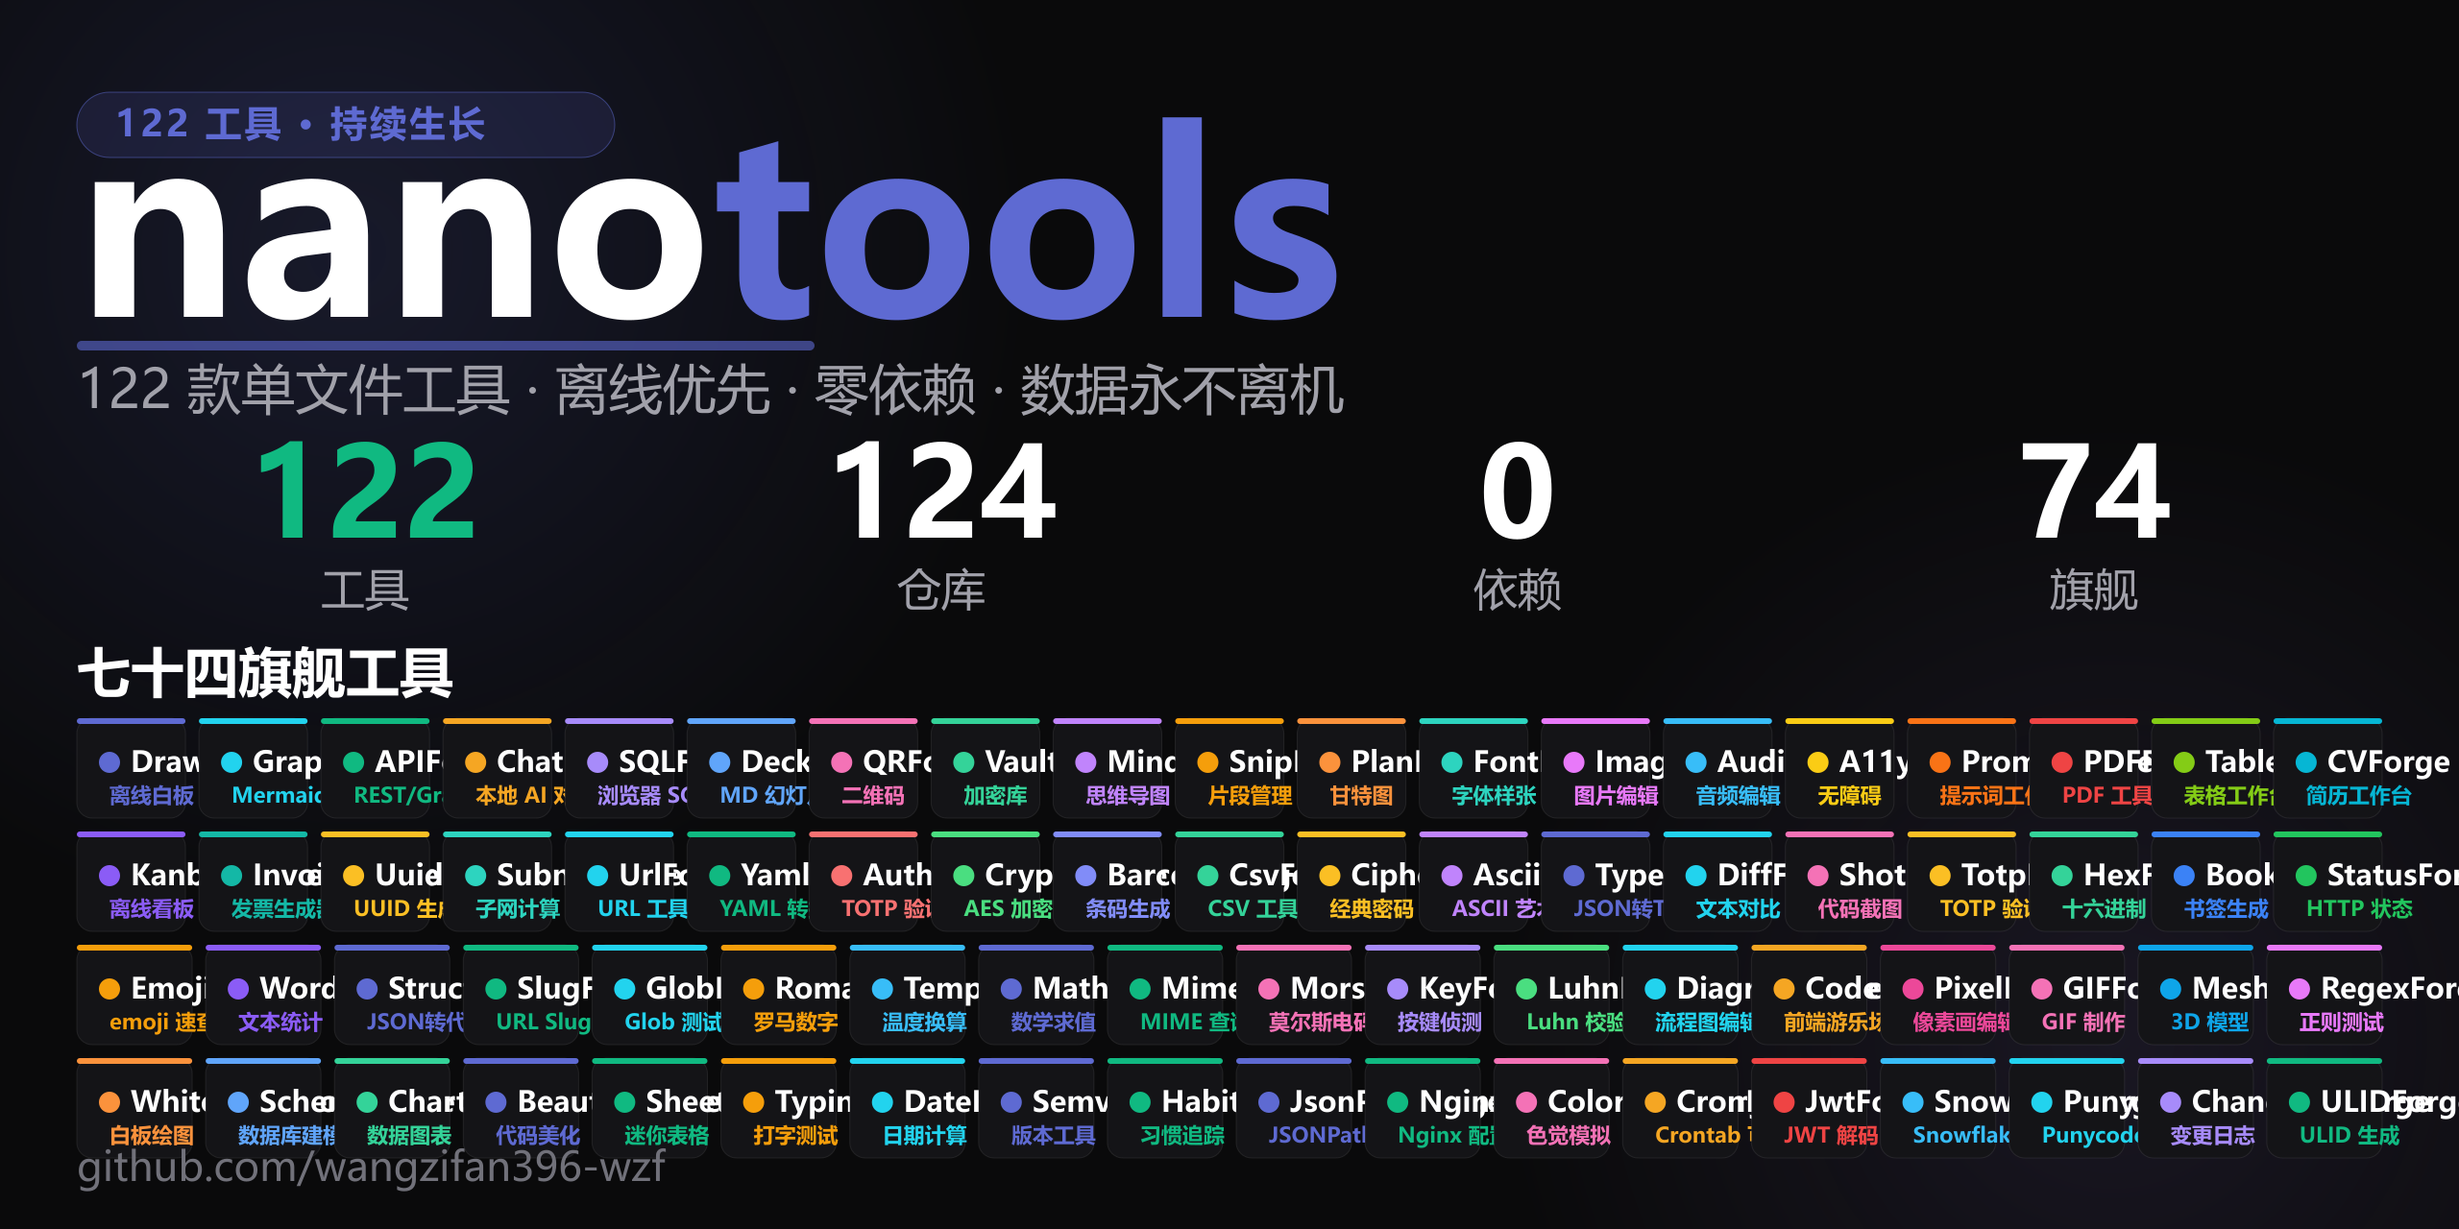
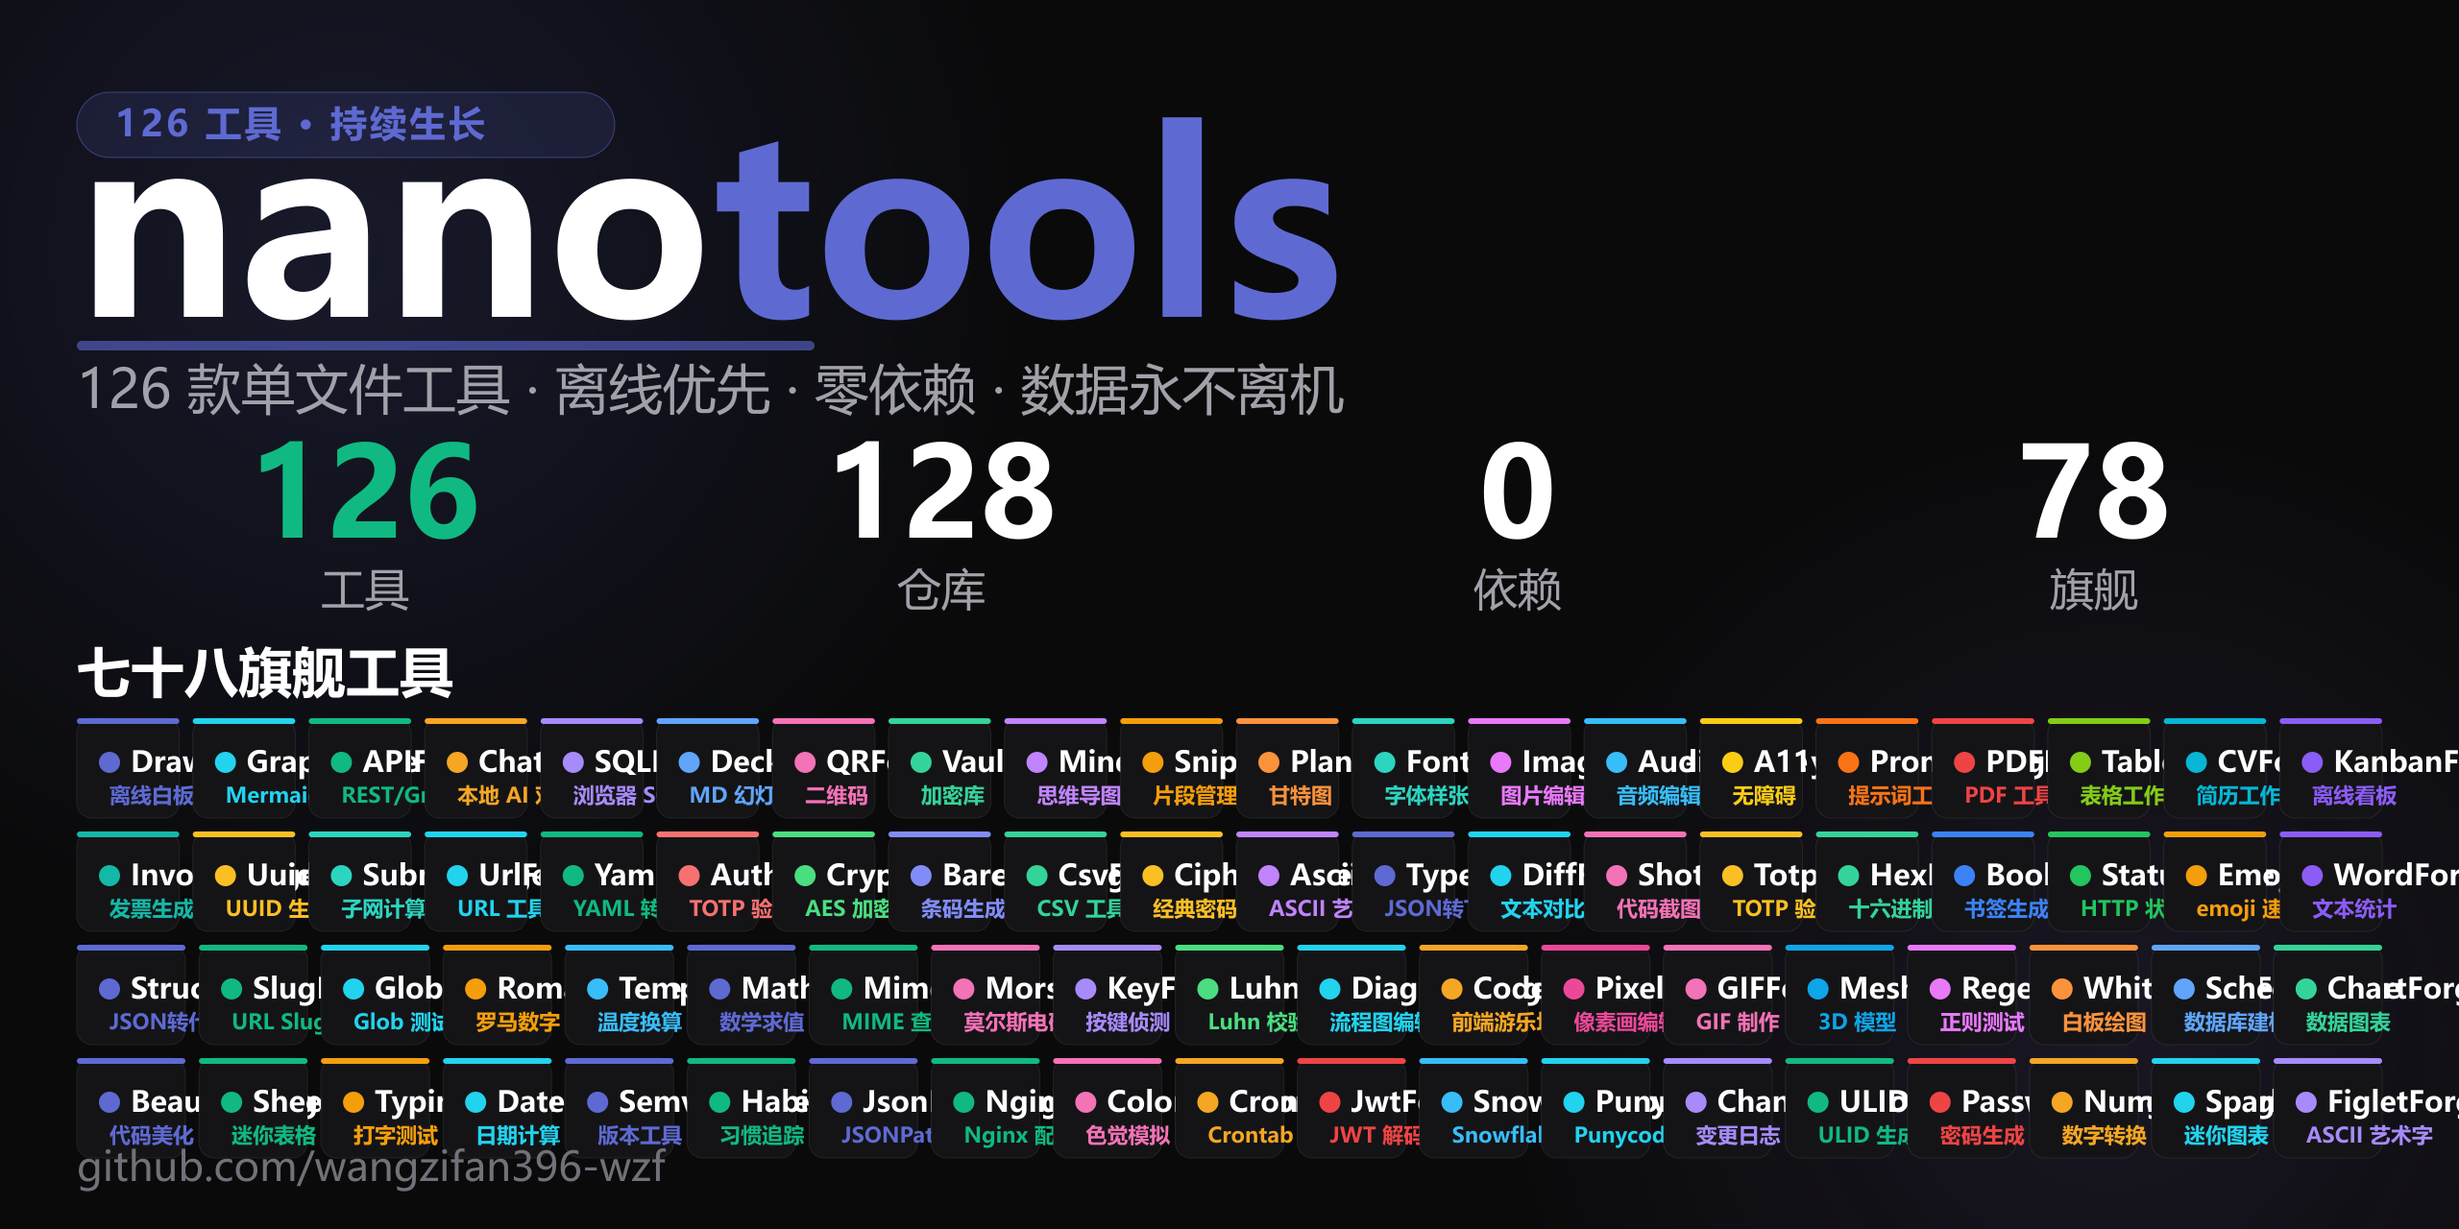
feat: batch 23 - add PasswordForge/NumeralForge/SparkForge/FigletForge (126 tools, 78 flagships)

diff --git a/index.html b/index.html
@@ -5,9 +5,9 @@
 <meta charset="UTF-8">
 <meta name="viewport" content="width=device-width, initial-scale=1.0">
 <title data-i18n="meta_title">nano-tools · 单文件零依赖工具集</title>
-<meta name="description" data-i18n="meta_desc" content="一个标签页，收纳你全部的开发者工具。122 个单文件、零依赖、本地优先的开源工具，下载即用，数据永不离机。">
+<meta name="description" data-i18n="meta_desc" content="一个标签页，收纳你全部的开发者工具。126 个单文件、零依赖、本地优先的开源工具，下载即用，数据永不离机。">
 <meta property="og:title" data-i18n="og_title" content="nano-tools · 单文件零依赖工具集">
-<meta property="og:description" data-i18n="og_desc" content="122 个单文件、零依赖、本地优先的开发者工具，下载即用，数据永不离机。">
+<meta property="og:description" data-i18n="og_desc" content="126 个单文件、零依赖、本地优先的开发者工具，下载即用，数据永不离机。">
 <meta property="og:image" content="social-preview.png">
 <meta property="og:image:width" content="1280">
 <meta property="og:image:height" content="640">
@@ -278,7 +278,7 @@
     <div class="hero-left">
       <span class="eyebrow"><span class="dot"></span><span data-i18n="hero_eyebrow">开源 · 零依赖 · 单文件</span></span>
       <h1 class="title" data-i18n-html="hero_title">一个标签页，<br>收纳你<span class="hl">全部的开发者工具</span></h1>
-      <p class="subtitle" data-i18n="hero_subtitle">122 个单文件、离线优先的开源工具，覆盖编码、转换、可视化与 AI。下载即用，数据永远留在你的浏览器里。</p>
+      <p class="subtitle" data-i18n="hero_subtitle">126 个单文件、离线优先的开源工具，覆盖编码、转换、可视化与 AI。下载即用，数据永远留在你的浏览器里。</p>
       <div class="hero-cta">
         <a class="btn primary" href="#tools" data-i18n="hero_browse">浏览工具 ↓</a>
         <a class="btn" href="https://github.com/wangzifan396-wzf" target="_blank" rel="noopener" data-i18n="hero_github">在 GitHub 查看</a>
@@ -327,7 +327,7 @@
   <div class="wrap">
     <div class="sec-head reveal">
       <span class="label" data-i18n="tools_label">工具矩阵</span>
-      <h2 class="sec-title" data-i18n="tools_title">122 款精心打磨的开发者工具</h2>
+      <h2 class="sec-title" data-i18n="tools_title">126 款精心打磨的开发者工具</h2>
       <p class="sec-desc" data-i18n="tools_desc">搜索或按分类筛选，点击「在线试用」立即体验，或前往源码仓库查看实现。</p>
     </div>
     <div class="controls reveal">
@@ -385,7 +385,7 @@
 <div class="wrap">
   <div class="cta-band reveal" style="border-color:var(--acc);">
     <span class="pill ok" style="align-self:center;background:rgba(94,106,210,.16);color:#aab2f0;" data-i18n="wb_badge">★ 聚合工作台</span>
-    <h2 data-i18n="wb_title">一个标签页，收纳全部 122 款工具</h2>
+    <h2 data-i18n="wb_title">一个标签页，收纳全部 126 款工具</h2>
     <p data-i18n="wb_desc">nano-workbench：点选即在内嵌窗口运行、标签间即时切换，无需反复打开新页面。数据永不离机。</p>
     <div class="hero-cta">
       <a class="btn primary" href="https://wangzifan396-wzf.github.io/nano-workbench/" target="_blank" rel="noopener" data-i18n="wb_open">打开工作台 ↗</a>
@@ -397,7 +397,7 @@
 <div class="wrap">
   <div class="cta-band reveal">
     <h2 data-i18n="cta_title">把你下一个小工具，交给 nano-tools</h2>
-    <p data-i18n="cta_desc">124 个仓库、122 款工具，全部开源、零依赖、本地优先。</p>
+    <p data-i18n="cta_desc">128 个仓库、126 款工具，全部开源、零依赖、本地优先。</p>
     <div class="hero-cta">
       <a class="btn primary" href="#tools" data-i18n="cta_browse">开始浏览</a>
       <a class="btn" href="https://github.com/wangzifan396-wzf" target="_blank" rel="noopener">★ Star on GitHub</a>
@@ -425,16 +425,16 @@
   // 双语字典（中 / 英）。data-i18n 文本用 textContent；data-i18n-html 保留 <br>/<span> 结构；meta 改 content 属性。
   var I18N = {
     "meta_title":{zh:"nano-tools · 单文件零依赖工具集",en:"nano-tools · single-file, zero-dep tools"},
-    "meta_desc":{zh:"一个标签页，收纳你全部的开发者工具。122 个单文件、零依赖、本地优先的开源工具，下载即用，数据永不离机。",en:"One tab for all your dev tools. 122 single-file, zero-dep, local-first open-source tools. Download and use; data never leaves the browser."},
+    "meta_desc":{zh:"一个标签页，收纳你全部的开发者工具。126 个单文件、零依赖、本地优先的开源工具，下载即用，数据永不离机。",en:"One tab for all your dev tools. 126 single-file, zero-dep, local-first open-source tools. Download and use; data never leaves the browser."},
     "og_title":{zh:"nano-tools · 单文件零依赖工具集",en:"nano-tools · single-file, zero-dep tools"},
-    "og_desc":{zh:"122 个单文件、零依赖、本地优先的开发者工具，下载即用，数据永不离机。",en:"122 single-file, zero-dep, local-first dev tools. Download and use; data never leaves the browser."},
+    "og_desc":{zh:"126 个单文件、零依赖、本地优先的开发者工具，下载即用，数据永不离机。",en:"126 single-file, zero-dep, local-first dev tools. Download and use; data never leaves the browser."},
     "nav_features":{zh:"特性",en:"Features"},
     "nav_tools":{zh:"工具",en:"Tools"},
     "nav_stats":{zh:"数据",en:"Stats"},
     "nav_faq":{zh:"问答",en:"FAQ"},
     "hero_eyebrow":{zh:"开源 · 零依赖 · 单文件",en:"Open-source · Zero-dep · Single-file"},
     "hero_title":{zh:'一个标签页，<br>收纳你<span class="hl">全部的开发者工具</span>',en:'One tab, <br>for <span class="hl">all your dev tools</span>'},
-    "hero_subtitle":{zh:"122 个单文件、离线优先的开源工具，覆盖编码、转换、可视化与 AI。下载即用，数据永远留在你的浏览器里。",en:"122 single-file, offline-first open-source tools spanning encoding, conversion, visualization & AI. Download and use instantly; your data never leaves the browser."},
+    "hero_subtitle":{zh:"126 个单文件、离线优先的开源工具，覆盖编码、转换、可视化与 AI。下载即用，数据永远留在你的浏览器里。",en:"126 single-file, offline-first open-source tools spanning encoding, conversion, visualization & AI. Download and use instantly; your data never leaves the browser."},
     "hero_browse":{zh:"浏览工具 ↓",en:"Browse tools ↓"},
     "hero_github":{zh:"在 GitHub 查看",en:"View on GitHub"},
     "meta_repos":{zh:"开源仓库",en:"Open-source repos"},
@@ -450,16 +450,16 @@
     "step3_t":{zh:"单文件可携",en:"Portable single-file"},
     "step3_d":{zh:"每个工具只有一个 HTML 文件，零依赖、可随便复制分享，U 盘里也能跑。",en:"Each tool is one HTML file — zero dependencies, copy & share freely, runs from a USB stick."},
     "tools_label":{zh:"工具矩阵",en:"Tool matrix"},
-    "tools_title":{zh:"122 款精心打磨的开发者工具",en:"122 Hand-crafted Dev Tools"},
+    "tools_title":{zh:"126 款精心打磨的开发者工具",en:"126 Hand-crafted Dev Tools"},
     "tools_desc":{zh:"搜索或按分类筛选，点击「在线试用」立即体验，或前往源码仓库查看实现。",en:"Search or filter by category, hit “Live Demo” to try instantly, or visit the source repo."},
     "search_ph":{zh:"搜索工具… 试试 regex / json / 颜色 / 压缩 / 图表",en:"Search tools… try regex / json / color / compress / chart"},
     "btn_demo":{zh:"在线试用",en:"Live Demo"},
     "btn_src":{zh:"源码",en:"Source"},
     "no_result":{zh:"没有匹配的工具，换个关键词试试 🔍",en:"No matching tools — try another keyword 🔍"},
     "cta_title":{zh:"把你下一个小工具，交给 nano-tools",en:"Your next tiny tool, from nano-tools"},
-    "cta_desc":{zh:"124 个仓库、122 款工具，全部开源、零依赖、本地优先。",en:"124 repos, 122 tools. All open-source, zero-dep, local-first."},
+    "cta_desc":{zh:"128 个仓库、126 款工具，全部开源、零依赖、本地优先。",en:"128 repos, 126 tools. All open-source, zero-dep, local-first."},
     "wb_badge":{zh:"★ 聚合工作台",en:"★ Unified Workbench"},
-    "wb_title":{zh:"一个标签页，收纳全部 122 款工具",en:"All 122 tools in one tab"},
+    "wb_title":{zh:"一个标签页，收纳全部 126 款工具",en:"All 126 tools in one tab"},
     "wb_desc":{zh:"nano-workbench：点选即在内嵌窗口运行、标签间即时切换，无需反复打开新页面。数据永不离机。",en:"nano-workbench: pick a tool and run it in an embedded pane, switch tabs instantly — no more reopening pages. Data never leaves your machine."},
     "wb_open":{zh:"打开工作台 ↗",en:"Open Workbench ↗"},
     "wb_src":{zh:"查看源码",en:"View Source"},
@@ -569,6 +569,18 @@
     {id:"ULIDForge", name:"ULIDForge", icon:"ulidforge", cat:"编码加密", badge:"旗舰",
      desc:"ULID 生成与解码：Crockford Base32，48 位毫秒时间戳 + 80 位随机，可排序、可校验、可反解时间。",
      tags:["ulid","base32","uuid"]},
+    {id:"PasswordForge", name:"PasswordForge", icon:"passwordforge", cat:"安全工具", badge:"旗舰",
+     desc:"安全口令生成器：可配字符集、避开易混字符（Il1O0o）、每类至少含一个，实时熵估计。",
+     tags:["password","entropy","security"]},
+    {id:"NumeralForge", name:"NumeralForge", icon:"numeralforge", cat:"实用计算", badge:"旗舰",
+     desc:"数字转英文单词与人民币大写金额，支持负数与小数。",
+     tags:["numeral","rmb","chinese-capital"]},
+    {id:"SparkForge", name:"SparkForge", icon:"sparkforge", cat:"可视化", badge:"旗舰",
+     desc:"数据序列一键生成 SVG 迷你折线图与柱状图，纯函数返回 SVG 字符串。",
+     tags:["sparkline","svg","chart"]},
+    {id:"FigletForge", name:"FigletForge", icon:"figletforge", cat:"文本处理", badge:"旗舰",
+     desc:"文本转 ASCII 方块艺术字，内置字体、可自定义填充字符与间距。",
+     tags:["figlet","ascii-art","banner"]},
     {id:"BaseForge", name:"BaseForge", icon:"base", cat:"实用计算", badge:"新",
      desc:"进制转换增强版：大整数（BigInt）、小数部分、自定义字符表（base62/58）、2–36 进制。",
      tags:["base","radix","bigint"]},
@@ -981,6 +993,11 @@
     PunyForge:{desc:"Punycode / IDN converter: RFC 3492 encode & decode, Unicode domain ↔ xn-- ASCII, per-label handling.", cat:"Crypto"},
     ChangelogForge:{desc:"Conventional Commits parser: group commits into a CHANGELOG, auto-infer next SemVer from breaking/feat/fix.", cat:"Dev Assist"},
     ULIDForge:{desc:"ULID generator & decoder: Crockford Base32, 48-bit ms timestamp + 80-bit randomness, sortable & verifiable.", cat:"Crypto"}
+,
+    PasswordForge:{desc:"Secure password generator: configurable charset, avoid ambiguous (Il1O0o), at-least-one-per-class, live entropy estimate.", cat:"Security"},
+    NumeralForge:{desc:"Number to English words and RMB capital amount (人民币大写), supports negatives and decimals.", cat:"Compute"},
+    SparkForge:{desc:"Sparkline & bar mini-chart generator: pure-function SVG strings from a numeric series.", cat:"Viz"},
+    FigletForge:{desc:"Figlet-style ASCII banner art: built-in block font, custom fill char and letter spacing.", cat:"Text"}
   };
   // 中文分类 -> 英文分类 映射
   var CAT_EN = {"全部":"All"};
@@ -1015,6 +1032,10 @@
     punyforge:'<circle cx="12" cy="12" r="9"/><path d="M3 12h18"/><path d="M12 3a13.5 13.5 0 0 1 0 18M12 3a13.5 13.5 0 0 0 0 18"/>',
     changelogforge:'<path d="M14 2H6a2 2 0 0 0-2 2v16a2 2 0 0 0 2 2h12a2 2 0 0 0 2-2V8z"/><path d="M14 2v6h6"/><path d="M8 13h8M8 17h5"/>',
     ulidforge:'<rect x="3" y="5" width="18" height="14" rx="2"/><path d="M7 9v4a2 2 0 0 0 4 0V9"/><path d="M15 9v6h3"/>',
+    passwordforge:'<rect x="3" y="11" width="18" height="10" rx="2"/><path d="M7 11V7a5 5 0 0 1 10 0v4"/><circle cx="12" cy="16" r="1.4"/>',
+    numeralforge:'<rect x="4" y="3" width="16" height="18" rx="2"/><path d="M8 7h8M8 11h8M8 15h5"/>',
+    sparkforge:'<path d="M3 17l5-6 4 3 5-7 4 5"/><path d="M3 21h18" opacity=".4"/>',
+    figletforge:'<rect x="3" y="5" width="18" height="14" rx="2"/><path d="M7 9v6M12 9v6M17 9v6M7 15h10" stroke-width="2"/>',
     base:'<path d="M4 7V4h16v3"/><path d="M9 20h6"/><path d="M12 4v16"/><path d="M6 12h4M14 12h4"/>',
     draw:'<path d="M3 21l3.6-1L20 6.6a2 2 0 0 0-2.8-2.8L3.4 17.4 3 21z"/><path d="M14 7l3 3"/>',
     graph:'<circle cx="6" cy="6" r="2.5"/><circle cx="18" cy="6" r="2.5"/><circle cx="12" cy="18" r="2.5"/><path d="M7.5 7.5 11 16M16.5 7.5 13 16M8 6h8"/>',
@@ -1118,7 +1139,7 @@
   var $ = function(s,el){return (el||document).querySelector(s);};
   var state = {q:"", cat:"全部", flag:false, fav:false};
   var LANG = (function(){ try{return localStorage.getItem("nano-lang")||"zh";}catch(e){return "zh";} })();
-  var FLAG_IDS = {"DrawForge":1,"GraphForge":1,"APIForge":1,"ChatForge":1,"SQLForge":1,"DeckForge":1,"QRForge":1,"VaultForge":1,"MindForge":1,"SnipForge":1,"PlanForge":1,"FontForge":1,"ImageForge":1,"AudioForge":1,"A11yForge":1,"PromptForge":1,"PDFForge":1,"TableForge":1,"CVForge":1,"KanbanForge":1,"InvoiceForge":1,"UuidForge":1,"SubnetForge":1,"UrlForge":1,"YamlForge":1,"AuthForge":1,"CryptoForge":1,"BarcodeForge":1,"CsvForge":1,"CipherForge":1,"AsciiForge":1,"TypeForge":1,"DiffForge":1,"ShotForge":1,"TotpForge":1,"HexForge":1,"BookForge":1,"StatusForge":1,"EmojiForge":1,"WordForge":1,"StructForge":1,"SlugForge":1,"GlobForge":1,"RomanForge":1,"TempForge":1,"MathForge":1,"MimeForge":1,"MorseForge":1,"KeyForge":1,"LuhnForge":1,"DiagramForge":1,"CodeForge":1,"PixelForge":1,"GIFForge":1,"MeshForge":1,"RegexForge":1,"WhiteboardForge":1,"SchemaForge":1,"ChartForge":1,"BeautifyForge":1,"SheetForge":1,"TypingForge":1,"DateForge":1,"SemverForge":1,"HabitForge":1,"JsonPathForge":1,"NginxForge":1,"ColorBlindForge":1,"CronForge":1,"JwtForge":1,"SnowflakeForge":1,"PunyForge":1,"ChangelogForge":1,"ULIDForge":1};
+  var FLAG_IDS = {"DrawForge":1,"GraphForge":1,"APIForge":1,"ChatForge":1,"SQLForge":1,"DeckForge":1,"QRForge":1,"VaultForge":1,"MindForge":1,"SnipForge":1,"PlanForge":1,"FontForge":1,"ImageForge":1,"AudioForge":1,"A11yForge":1,"PromptForge":1,"PDFForge":1,"TableForge":1,"CVForge":1,"KanbanForge":1,"InvoiceForge":1,"UuidForge":1,"SubnetForge":1,"UrlForge":1,"YamlForge":1,"AuthForge":1,"CryptoForge":1,"BarcodeForge":1,"CsvForge":1,"CipherForge":1,"AsciiForge":1,"TypeForge":1,"DiffForge":1,"ShotForge":1,"TotpForge":1,"HexForge":1,"BookForge":1,"StatusForge":1,"EmojiForge":1,"WordForge":1,"StructForge":1,"SlugForge":1,"GlobForge":1,"RomanForge":1,"TempForge":1,"MathForge":1,"MimeForge":1,"MorseForge":1,"KeyForge":1,"LuhnForge":1,"DiagramForge":1,"CodeForge":1,"PixelForge":1,"GIFForge":1,"MeshForge":1,"RegexForge":1,"WhiteboardForge":1,"SchemaForge":1,"ChartForge":1,"BeautifyForge":1,"SheetForge":1,"TypingForge":1,"DateForge":1,"SemverForge":1,"HabitForge":1,"JsonPathForge":1,"NginxForge":1,"ColorBlindForge":1,"CronForge":1,"JwtForge":1,"SnowflakeForge":1,"PunyForge":1,"ChangelogForge":1,"ULIDForge":1,"PasswordForge":1,"NumeralForge":1,"SparkForge":1,"FigletForge":1};
   var FAV_KEY = "nano-favs";
   function getFavs(){ try{return JSON.parse(localStorage.getItem(FAV_KEY)||"[]");}catch(e){return [];} }
   function setFav(id,on){ var s=getFavs(); var i=s.indexOf(id); if(on&&i<0)s.push(id); if(!on&&i>=0)s.splice(i,1); try{localStorage.setItem(FAV_KEY,JSON.stringify(s));}catch(e){} }
